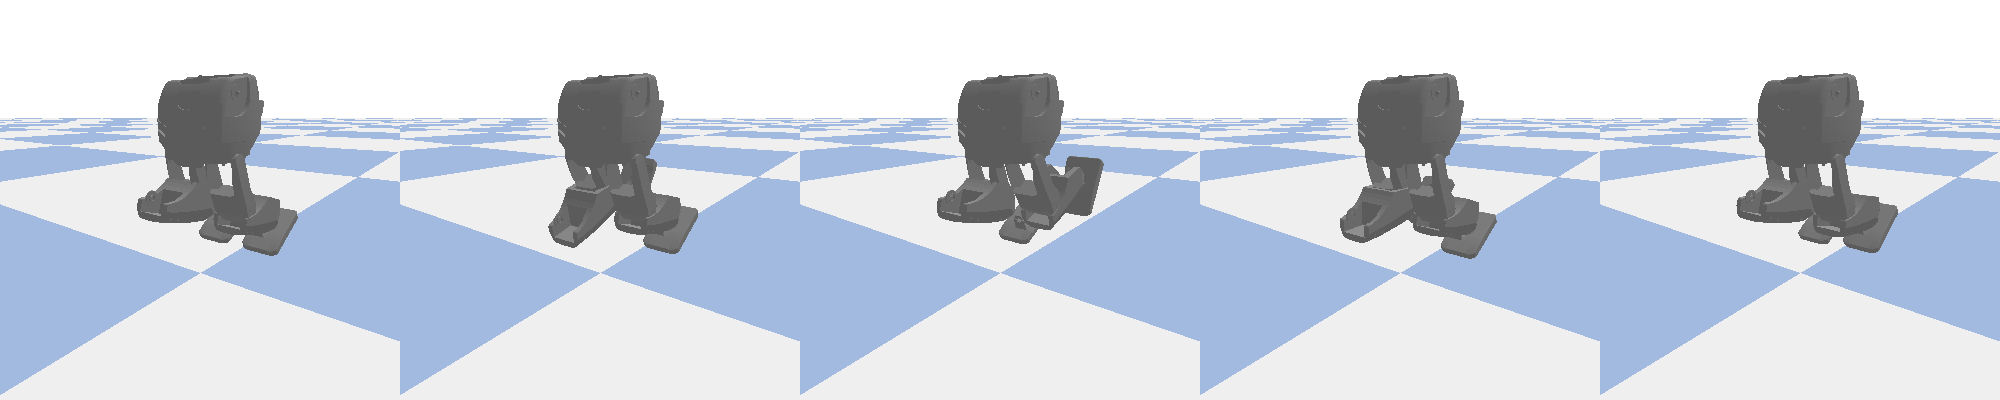
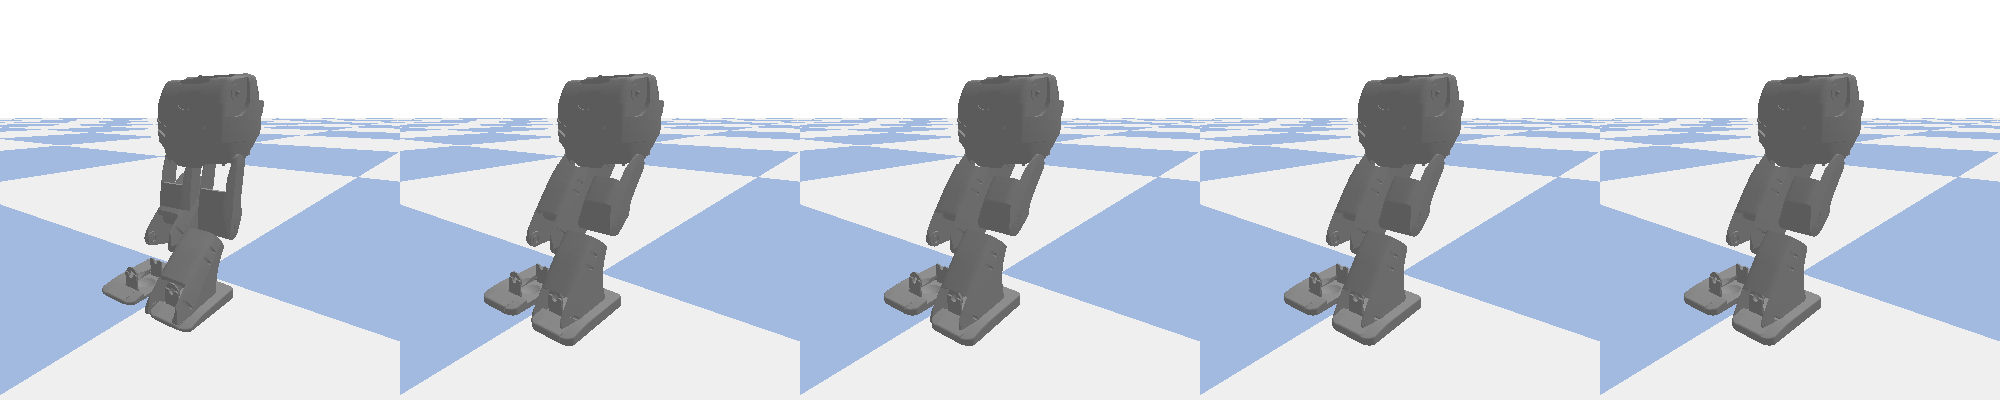
fix: 修复 URDF 网格偏移和 IK 符号
- URDF: 修正 l_shin_link 和 r_shin_link 的 visual origin (-0.0465)，解决小腿网格错位问题
- IK: 修正 l_hip/l_knee/l_ankle 的正负号，适配 URDF axis=(0,-1,0) 定义
- 步态: 增加支撑相占比，优化行走稳定性

diff --git a/scripts/simple_walking_gait.py b/scripts/simple_walking_gait.py
@@ -22,10 +22,11 @@ class RobotParams:
     HIP_OFFSET_Z = 0.0907 # m (髋关节垂直偏移)
     
     # 步态参数
-    STANDING_HEIGHT = 0.17  # m (站立时髋关节到脚底的距离，稍高一点)
-    STEP_LENGTH = 0.025     # m (步长)
-    STEP_HEIGHT = 0.02      # m (抬脚高度)
-    STEP_PERIOD = 0.8       # s (单步周期)
+    STANDING_HEIGHT = 0.19   # m (站立时髋关节到脚底的距离)
+    STEP_LENGTH = 0.08       # m (步长)
+    STEP_HEIGHT = 0.04       # m (抬脚高度)
+    STEP_PERIOD = 0.9        # s (单步周期)
+    DUTY_FACTOR = 0.6        # 支撑相占比 (>0.5)
 
 # ============== 逆运动学 ==============
 class InverseKinematics3DOF:
@@ -90,6 +91,31 @@ class SimpleWalkingGait:
     def __init__(self):
         self.params = RobotParams()
         self.ik = InverseKinematics3DOF()
+    
+    def _foot_pose(self, leg_phase: float):
+        """
+        根据腿相位（0~1）计算脚底位置 (x, z)
+        - [0, swing_portion) : 摆动期（脚抬起并从后向前摆）
+        - [swing_portion, 1) : 支撑期（脚贴地向后滑动）
+        """
+        H = self.params.STANDING_HEIGHT
+        step_len = self.params.STEP_LENGTH
+        step_h = self.params.STEP_HEIGHT
+        duty = self.params.DUTY_FACTOR
+        swing_portion = max(0.05, 1.0 - duty)  # 防止除 0
+        
+        if leg_phase < swing_portion:
+            # 摆动
+            s = leg_phase / swing_portion  # 0~1
+            x = -step_len / 2 + step_len * s
+            z = -H + step_h * math.sin(math.pi * s)
+        else:
+            # 支撑
+            s = (leg_phase - swing_portion) / duty  # 0~1
+            x = step_len / 2 - step_len * s
+            z = -H
+        
+        return x, z
         
     def compute_joint_angles(self, t):
         """
@@ -97,43 +123,17 @@ class SimpleWalkingGait:
         返回: [l_hip, l_knee, l_ankle, r_hip, r_knee, r_ankle]
         """
         T = self.params.STEP_PERIOD
-        H = self.params.STANDING_HEIGHT
-        step_len = self.params.STEP_LENGTH
-        step_h = self.params.STEP_HEIGHT
-        
-        # 归一化时间
         phase = (t % T) / T  # 0 ~ 1
         
-        # 判断哪条腿在摆动
-        cycle = int(t / T)
-        left_swing = (cycle % 2 == 0)
+        # 左右腿相位错开 180°
+        left_phase = phase
+        right_phase = (phase + 0.5) % 1.0
         
-        # 重心前后摆动（简化：小幅度正弦）
-        com_x_offset = 0.005 * math.sin(2 * math.pi * phase)
+        l_x, l_z = self._foot_pose(left_phase)
+        r_x, r_z = self._foot_pose(right_phase)
         
-        # 计算两腿的脚位置
-        if left_swing:
-            # 左腿摆动，右腿支撑
-            # 右脚（支撑）
-            r_foot_x = -com_x_offset
-            r_foot_z = -H
-            
-            # 左脚（摆动）- 正弦轨迹
-            swing_phase = phase
-            l_foot_x = step_len * (swing_phase - 0.5) - com_x_offset
-            l_foot_z = -H + step_h * math.sin(math.pi * swing_phase)
-        else:
-            # 右腿摆动，左腿支撑
-            l_foot_x = -com_x_offset
-            l_foot_z = -H
-            
-            swing_phase = phase
-            r_foot_x = step_len * (swing_phase - 0.5) - com_x_offset
-            r_foot_z = -H + step_h * math.sin(math.pi * swing_phase)
-        
-        # 逆运动学
-        l_angles = self.ik.solve(l_foot_x, l_foot_z)
-        r_angles = self.ik.solve(r_foot_x, r_foot_z)
+        l_angles = self.ik.solve(l_x, l_z)
+        r_angles = self.ik.solve(r_x, r_z)
         
         return np.concatenate([l_angles, r_angles])
     
@@ -203,18 +203,26 @@ def run_simulation():
     gait = SimpleWalkingGait()
     
     # 关节名称和对应的符号（适配 URDF 中的轴定义）
-    # URDF: l_hip_pitch axis=(0,-1,0), l_knee axis=(0,-1,0), l_ankle_pitch axis=(0,1,0)
-    #       r_hip_pitch axis=(0,-1,0), r_knee axis=(0,-1,0), r_ankle_pitch axis=(0,1,0)
-    # 我们的IK: 正值=向前踢腿
-    # URDF: axis=(0,-1,0) 意味着正角度绕-Y轴旋转，即向后踢腿
-    # 所以需要取反
+    # URDF: l_hip_pitch axis=(0,-1,0) -> 正=后摆
+    #       l_knee axis=(0,-1,0)      -> 正=后摆(弯曲)
+    #       l_ankle_pitch axis=(0,1,0)-> 正=上勾
+    #
+    # IK 输出定义:
+    #   hip: 正=前摆
+    #   knee: 负=弯曲(后摆)
+    #   ankle: 正=上勾(抵消hip+knee)
+    #
+    # 映射关系:
+    #   hip: IK(正) -> URDF(负) => -1
+    #   knee: IK(负) -> URDF(正) => -1
+    #   ankle: IK(正) -> URDF(正) => 1
     joint_config = [
-        ('l_hip_pitch', 1),    # axis=(0,-1,0)，我们的正=URDF的负
-        ('l_knee', 1),         # axis=(0,-1,0)
-        ('l_ankle_pitch', -1), # axis=(0,1,0)，方向相反
-        ('r_hip_pitch', 1),    # axis=(0,-1,0)
-        ('r_knee', 1),         # axis=(0,-1,0)
-        ('r_ankle_pitch', -1), # axis=(0,1,0)
+        ('l_hip_pitch', -1),
+        ('l_knee', -1),
+        ('l_ankle_pitch', 1),
+        ('r_hip_pitch', -1),
+        ('r_knee', -1),
+        ('r_ankle_pitch', 1),
     ]
     
     # 设置初始站立姿态

diff --git a/scripts/diagnose_mesh.py b/scripts/diagnose_mesh.py
@@ -1,0 +1,64 @@
+import pybullet as p
+import pybullet_data
+import os
+import math
+from PIL import Image
+import numpy as np
+
+# 路径
+PROJECT_ROOT = "/home/vickyleu/ros2_ws/src/ROS2_Walking_Pattern_Generator"
+URDF_FILE = os.path.join(PROJECT_ROOT, "robot_description/models/robotis_op2/urdf/simple_working_robot.urdf")
+OUTPUT_IMG = os.path.join(PROJECT_ROOT, "Records/screenshots/debug_mesh.png")
+
+# 修正 URDF 路径
+with open(URDF_FILE, 'r') as f:
+    content = f.read()
+content = content.replace('package://robot_description/', os.path.join(PROJECT_ROOT, 'robot_description/'))
+import tempfile
+with tempfile.NamedTemporaryFile(mode='w', suffix='.urdf', delete=False) as tmp:
+    tmp.write(content)
+    tmp_urdf = tmp.name
+
+# 启动 PyBullet
+p.connect(p.DIRECT)
+p.setAdditionalSearchPath(pybullet_data.getDataPath())
+p.loadURDF("plane.urdf")
+robot = p.loadURDF(tmp_urdf, [0, 0, 0.5], useFixedBase=True)
+
+# 摆一个特定的 Pose 来暴露问题
+# 左腿弯曲，右腿直立
+joint_vals = {
+    'l_hip_pitch': 0.0,
+    'l_knee': -0.5,  # 弯曲左膝，看小腿 mesh 是否跟随且位置正确
+    'l_ankle_pitch': 0.5,
+    'r_hip_pitch': 0.0,
+    'r_knee': 0.0,
+    'r_ankle_pitch': 0.0
+}
+
+for i in range(p.getNumJoints(robot)):
+    info = p.getJointInfo(robot, i)
+    name = info[1].decode('utf-8')
+    if name in joint_vals:
+        p.resetJointState(robot, i, joint_vals[name])
+
+p.stepSimulation()
+
+# 截图
+view_matrix = p.computeViewMatrix(
+    cameraEyePosition=[0.6, 0.6, 0.5],
+    cameraTargetPosition=[0, 0, 0.2],
+    cameraUpVector=[0, 0, 1]
+)
+proj_matrix = p.computeProjectionMatrixFOV(fov=50, aspect=1.0, nearVal=0.01, farVal=10)
+w, h, rgb, _, _ = p.getCameraImage(600, 600, view_matrix, proj_matrix, renderer=p.ER_TINY_RENDERER)
+
+# 保存
+img = Image.fromarray(np.array(rgb, dtype=np.uint8).reshape(h, w, 4)[:, :, :3])
+os.makedirs(os.path.dirname(OUTPUT_IMG), exist_ok=True)
+img.save(OUTPUT_IMG)
+print(f"Debug 截图已保存: {OUTPUT_IMG}")
+
+p.disconnect()
+os.unlink(tmp_urdf)
+

diff --git a/scripts/debug_urdf.py b/scripts/debug_urdf.py
@@ -1,0 +1,32 @@
+import pybullet as p
+import pybullet_data
+import time
+import math
+
+# 连接 PyBullet
+p.connect(p.GUI)
+p.setAdditionalSearchPath(pybullet_data.getDataPath())
+p.loadURDF("plane.urdf")
+
+# 加载机器人
+urdf_path = "robot_description/models/robotis_op2/urdf/simple_working_robot.urdf"
+robot = p.loadURDF(urdf_path, [0, 0, 0.5], useFixedBase=True)
+
+# 添加调试滑块
+sliders = []
+joint_map = {}
+for i in range(p.getNumJoints(robot)):
+    info = p.getJointInfo(robot, i)
+    name = info[1].decode('utf-8')
+    if info[2] != p.JOINT_FIXED:
+        sid = p.addUserDebugParameter(name, -3.14, 3.14, 0)
+        sliders.append((sid, i))
+        joint_map[name] = i
+
+# 主循环
+while True:
+    for sid, jid in sliders:
+        val = p.readUserDebugParameter(sid)
+        p.resetJointState(robot, jid, val)
+    time.sleep(0.01)
+
